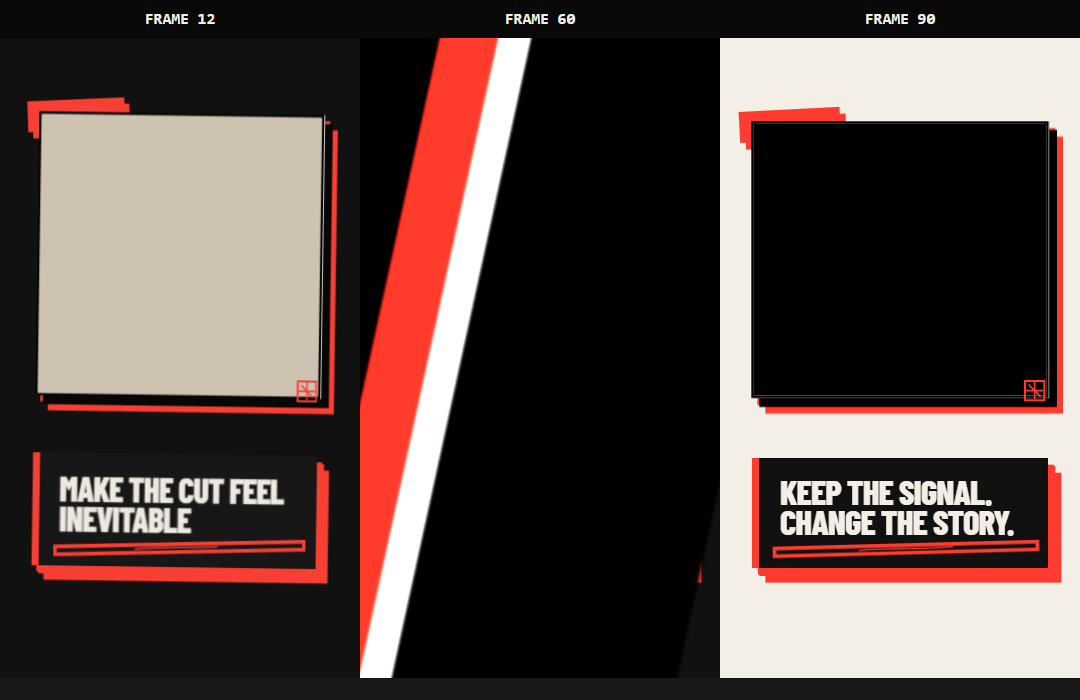
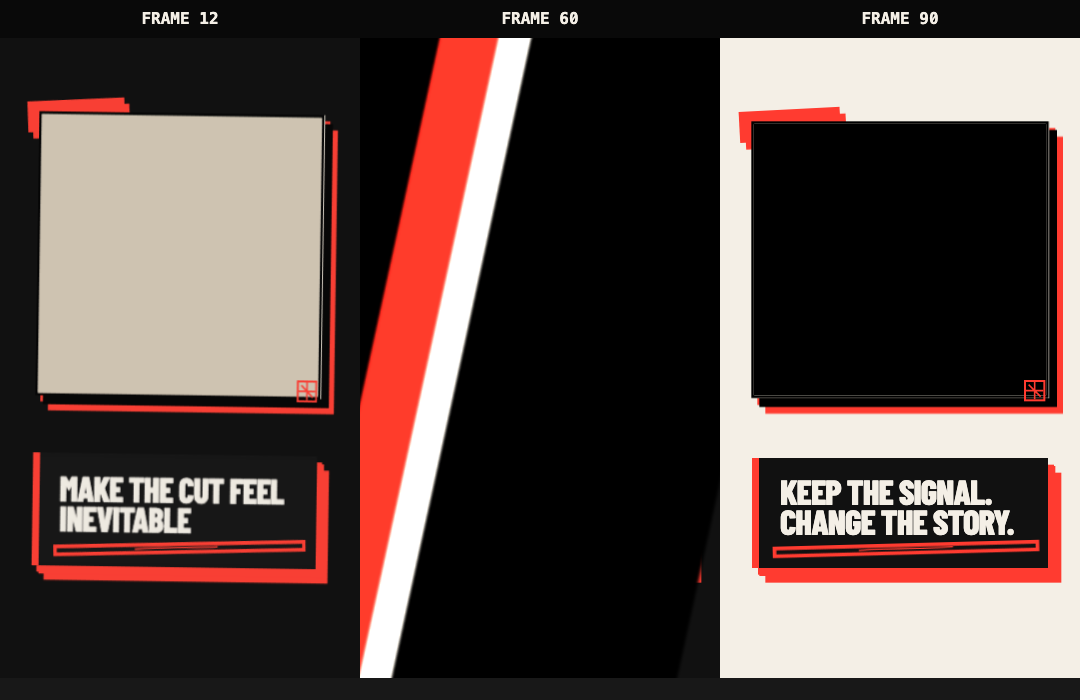
Keep online agent output guard-free

diff --git a/misc/test-runs/render-browser-showcase.js b/misc/test-runs/render-browser-showcase.js
@@ -46,8 +46,13 @@ try {
     const htmlFile = path.join(htmlDirectory, `${name}.html`);
     const pngFile = path.join(outputDirectory, `${name}.png`);
     await writeFile(htmlFile, documentHtml(name, panels), 'utf8');
+    await rm(pngFile, { force: true });
     const result = spawnSync(browser, [
       '--headless=new',
+      '--no-first-run',
+      '--no-default-browser-check',
+      '--disable-background-networking',
+      '--disable-component-update',
       '--disable-gpu',
       '--hide-scrollbars',
       '--allow-file-access-from-files',
@@ -57,10 +62,12 @@ try {
       `--user-data-dir=${profile}`,
       `--screenshot=${pngFile}`,
       pathToFileURL(htmlFile).href,
-    ], { encoding: 'utf8' });
-    if (result.status !== 0) {
+    ], { encoding: 'utf8', timeout: 10_000 });
+    const timedOutAfterCapture = result.error?.code === 'ETIMEDOUT';
+    if (result.status !== 0 && !timedOutAfterCapture) {
       throw new Error(result.stderr || `browser exited with ${result.status}`);
     }
+    await access(pngFile);
     console.log(`${name}: ${frames.join(', ')} -> ${path.relative(process.cwd(), pngFile)}`);
   }
 } finally {
@@ -151,7 +158,12 @@ async function findBrowser() {
       'C:\\Program Files (x86)\\Microsoft\\Edge\\Application\\msedge.exe',
       'C:\\Program Files\\Microsoft\\Edge\\Application\\msedge.exe',
     ]
-    : ['/usr/bin/google-chrome', '/usr/bin/chromium', '/usr/bin/chromium-browser'];
+    : process.platform === 'darwin'
+      ? [
+        '/Applications/Google Chrome.app/Contents/MacOS/Google Chrome',
+        '/Applications/Microsoft Edge.app/Contents/MacOS/Microsoft Edge',
+      ]
+      : ['/usr/bin/google-chrome', '/usr/bin/chromium', '/usr/bin/chromium-browser'];
   for (const candidate of candidates) {
     try {
       await access(candidate);

diff --git a/misc/test-runs/tests/compositions.test.js b/misc/test-runs/tests/compositions.test.js
@@ -71,7 +71,11 @@ test('online-agent output is a plain Norman-shaped builder with explicit ordered
   assert.equal(projectUnit(unit, { frame: 0 }).opacity, 0);
   assert.notEqual(projectUnit(unit, { frame: 8 }).pose.x, 0);
   assert.match(projectUnit(unit, { frame: 24 }).effects.shadow, /#09060f/u);
-  assert.throws(() => ritualOffer({ text: 'not a string' }), /must be a string/u);
+  assert.doesNotMatch(
+    ritualOffer.toString(),
+    /\b(?:if|switch|throw|try|catch|typeof|instanceof)\b/u,
+    'online-agent builder must contain no runtime validation or guards',
+  );
 });
 
 test('ranking cardinality is data: two and twenty items use the same RitualOfferCard', () => {

diff --git a/misc/test-runs/tests/online.test.js b/misc/test-runs/tests/online.test.js
@@ -382,6 +382,7 @@ test('agent prompt describes an isolated code-writing candidate, not AST admissi
   assert.match(prompt, /preserves:/iu);
   assert.match(prompt, /context\.frame for Shot-local motion/iu);
   assert.match(prompt, /plain ESM builder function/iu);
+  assert.match(prompt, /do not validate, classify or guard runtime input inside the builder/iu);
   assert.match(prompt, /unit\.addBehaviour\(entry\)/u);
   assert.match(prompt, /not a Composition class, descriptor, schema or JSON response/iu);
   assert.doesNotMatch(prompt, /confidence|probability|source parser/iu);

diff --git a/src/online/agent-prompt.js b/src/online/agent-prompt.js
@@ -37,6 +37,7 @@ Unit contract:
 
 Required workspace output:
 - export a plain ESM builder function whose first argument is runtime content;
+- do not validate, classify or guard runtime input inside the builder; pass it directly into Units;
 - inside it, construct the root Unit, instantiate each named Behaviour with that exact Unit, call unit.addBehaviour(...) in authored order, and return the Unit;
 - the builder is executable application code, not a Composition class, descriptor, schema or JSON response;
 

diff --git a/src/compositions/RitualOffer.js b/src/compositions/RitualOffer.js
@@ -5,8 +5,6 @@ import { RitualOfferCard } from '@cut3/agent-memory/units/retro-ritual/RitualOff
 
 /** Plain Norman-shaped output produced by an online coding agent. */
 export function ritualOffer(text) {
-  if (typeof text !== 'string') throw new TypeError('ritualOffer text must be a string');
-
   const unit = new RitualOfferCard(new Text(text));
   const entry = new RitualCardDeal(unit);
   const animation = new BoneIdleHop(unit);

diff --git a/VERIFY.md b/VERIFY.md
@@ -78,7 +78,7 @@ export function ritualOffer(text) {
 }
 ```
 
-The first argument is runtime data, not a schema. `RitualOfferCard` owns the nested visual tree but does not secretly select its entry or idle animation. The builder makes Behaviour choice and order readable application code. `RetroRitualRankingComposition` uses this same function for every ranking item and the winner; the example is not disconnected test scaffolding.
+The first argument is runtime data, not a schema. The builder contains no validation, classification or guard branches; it passes runtime content directly into Units. `RitualOfferCard` owns the nested visual tree but does not secretly select its entry or idle animation. The builder makes Behaviour choice and order readable application code. `RetroRitualRankingComposition` uses this same function for every ranking item and the winner; the example is not disconnected test scaffolding.
 
 ## What counts as memory
 
